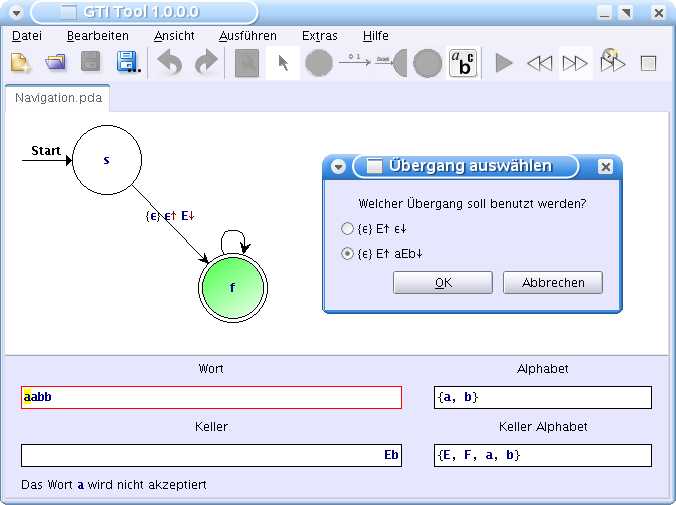
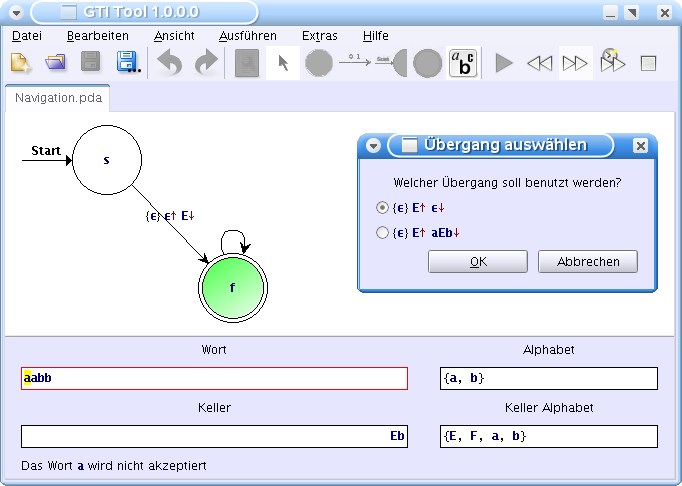
- Use the pretty string for the labels in the dialogs. - Bugfix: Correct the enter word toggle button state if there are validation errors. - Update the images. - Reimplement the default name implementation.
git-svn-id: https://vcs.informatik.uni-siegen.de/svn/gtitool/trunk@1205 d1fb0f2a-2248-4f96-a540-7c12a6a72a62

diff --git a/de.unisiegen.gtitool.core/source-impl/de/unisiegen/gtitool/core/entities/DefaultState.java b/de.unisiegen.gtitool.core/source-impl/de/unisiegen/gtitool/core/entities/DefaultState.java
@@ -64,12 +64,6 @@ public final class DefaultState implements State
 
 
   /**
-   * Flag that indicates if the default name can be set.
-   */
-  private boolean canSetDefaultName;
-
-
-  /**
    * This {@link DefaultState} is a final {@link DefaultState}.
    */
   private boolean finalState = false;
@@ -175,29 +169,6 @@ public final class DefaultState implements State
    * @param alphabet The {@link Alphabet} of this {@link DefaultState}.
    * @param pushDownAlphabet The push down {@link Alphabet} of this
    *          {@link DefaultState}.
-   * @param startState This {@link DefaultState} is a start {@link DefaultState}
-   *          .
-   * @param finalState This {@link DefaultState} is a final {@link DefaultState}
-   *          .
-   * @throws StateException If something with the {@link DefaultState} is not
-   *           correct.
-   */
-  public DefaultState ( Alphabet alphabet, Alphabet pushDownAlphabet,
-      boolean startState, boolean finalState ) throws StateException
-  {
-    this ( alphabet, pushDownAlphabet, "DEFAULTNAME", startState, finalState ); //$NON-NLS-1$
-    this.canSetDefaultName = true;
-
-    resetModify ();
-  }
-
-
-  /**
-   * Allocates a new {@link DefaultState}.
-   * 
-   * @param alphabet The {@link Alphabet} of this {@link DefaultState}.
-   * @param pushDownAlphabet The push down {@link Alphabet} of this
-   *          {@link DefaultState}.
    * @param name The name of this {@link DefaultState}.
    * @param startState This {@link DefaultState} is a start {@link DefaultState}
    *          .
@@ -244,9 +215,6 @@ public final class DefaultState implements State
     // TransitionEnd
     this.transitionEndList = new ArrayList < Transition > ();
     this.transitionEndIdList = new ArrayList < Integer > ();
-
-    // CanSetDefaultName
-    this.canSetDefaultName = false;
 
     // Attribute
     boolean foundId = false;
@@ -373,9 +341,6 @@ public final class DefaultState implements State
     // TransitionEnd
     this.transitionEndList = new ArrayList < Transition > ();
     this.transitionEndIdList = new ArrayList < Integer > ();
-
-    // DefaultName
-    this.canSetDefaultName = false;
 
     resetModify ();
   }
@@ -993,33 +958,6 @@ public final class DefaultState implements State
       throw new IllegalArgumentException ( "alphabet is already set" ); //$NON-NLS-1$
     }
     this.alphabet = alphabet;
-  }
-
-
-  /**
-   * {@inheritDoc}
-   * 
-   * @see State#setDefaultName()
-   */
-  public final void setDefaultName ()
-  {
-    if ( this.canSetDefaultName )
-    {
-      if ( this.id == ID_NOT_DEFINED )
-      {
-        throw new IllegalArgumentException ( "id is not defined" ); //$NON-NLS-1$ 
-      }
-      try
-      {
-        setName ( "z" + this.id ); //$NON-NLS-1$
-      }
-      catch ( StateException exc )
-      {
-        exc.printStackTrace ();
-        System.exit ( 1 );
-        return;
-      }
-    }
   }
 
 

diff --git a/de.unisiegen.gtitool.ui/source/de/unisiegen/gtitool/ui/logic/TransitionDialog.java b/de.unisiegen.gtitool.ui/source/de/unisiegen/gtitool/ui/logic/TransitionDialog.java
@@ -25,6 +25,9 @@ import de.unisiegen.gtitool.core.entities.Word;
 import de.unisiegen.gtitool.core.exceptions.state.StateException;
 import de.unisiegen.gtitool.core.exceptions.transition.TransitionException;
 import de.unisiegen.gtitool.core.machines.Machine.MachineType;
+import de.unisiegen.gtitool.core.parser.style.PrettyString;
+import de.unisiegen.gtitool.core.parser.style.PrettyToken;
+import de.unisiegen.gtitool.core.parser.style.Style;
 import de.unisiegen.gtitool.core.parser.style.renderer.PrettyStringListCellRenderer;
 import de.unisiegen.gtitool.ui.i18n.Messages;
 import de.unisiegen.gtitool.ui.jgraph.DefaultStateView;
@@ -513,7 +516,7 @@ public final class TransitionDialog implements
       {
         State newState;
         newState = new DefaultState ( this.alphabet, this.pushDownAlphabet,
-            false, false );
+            this.machinePanel.getMachine ().getNextStateName (), false, false );
         target = this.model.createStateView ( this.xPosition / this.zoomFactor,
             this.yPosition / this.zoomFactor, newState, false );
         this.transition.setStateEnd ( target.getState () );
@@ -628,18 +631,19 @@ public final class TransitionDialog implements
     this.alphabet = initAlphabet;
     this.pushDownAlphabet = initPushDownAlphabet;
 
-    // PushDownWordRead
     setPushDownWordRead ( initPushDownWordRead );
-    // PushDownWordWrite
     setPushDownWordWrite ( initPushDownWordWrite );
+
     this.stateBegin = initStateBegin;
     this.stateEnd = initStateEnd;
     this.gui = new TransitionDialogForm ( this, initParent );
-    String targetName = this.stateEnd == null ? Messages
-        .getString ( "TransitionDialog.NewState" ) : this.stateEnd //$NON-NLS-1$
-        .getName ();
-    this.gui.jGTILabelNonterminalSymbol.setText ( Messages.getString (
-        "TransitionDialog.Header", this.stateBegin, targetName ) ); //$NON-NLS-1$
+
+    String targetName = this.stateEnd == null ? initMachinePanel.getMachine ()
+        .getNextStateName () : this.stateEnd.getName ();
+    this.gui.jGTILabelNonterminalSymbol.setText ( Messages.getPrettyString (
+        "TransitionDialog.Header", this.stateBegin.toPrettyString (), //$NON-NLS-1$
+        new PrettyString ( new PrettyToken ( targetName, Style.STATE ) ) )
+        .toHTMLString () );
 
     this.gui.jGTIListChangeOverSet
         .setTransferHandler ( new JGTIListTransferHandler (

diff --git a/de.unisiegen.gtitool.ui/source/de/unisiegen/gtitool/ui/logic/MachinePanel.java b/de.unisiegen.gtitool.ui/source/de/unisiegen/gtitool/ui/logic/MachinePanel.java
@@ -2719,7 +2719,8 @@ public final class MachinePanel implements LogicClass < MachinePanelForm >,
         {
           State newState = new DefaultState ( MachinePanel.this.machine
               .getAlphabet (),
-              MachinePanel.this.machine.getPushDownAlphabet (), false, false );
+              MachinePanel.this.machine.getPushDownAlphabet (),
+              MachinePanel.this.machine.getNextStateName (), false, false );
 
           MachinePanel.this.model.createStateView ( event.getPoint ().x
               / MachinePanel.this.zoomFactor, event.getPoint ().y
@@ -3106,7 +3107,8 @@ public final class MachinePanel implements LogicClass < MachinePanelForm >,
         {
           State newState = new DefaultState ( MachinePanel.this.machine
               .getAlphabet (),
-              MachinePanel.this.machine.getPushDownAlphabet (), true, false );
+              MachinePanel.this.machine.getPushDownAlphabet (),
+              MachinePanel.this.machine.getNextStateName (), true, false );
           MachinePanel.this.model.createStateView ( event.getPoint ().x
               / MachinePanel.this.zoomFactor, event.getPoint ().y
               / MachinePanel.this.zoomFactor, newState, true );
@@ -3207,7 +3209,8 @@ public final class MachinePanel implements LogicClass < MachinePanelForm >,
         {
           State newState = new DefaultState ( MachinePanel.this.machine
               .getAlphabet (),
-              MachinePanel.this.machine.getPushDownAlphabet (), false, true );
+              MachinePanel.this.machine.getPushDownAlphabet (),
+              MachinePanel.this.machine.getNextStateName (), false, true );
           MachinePanel.this.model.createStateView ( event.getPoint ().x
               / MachinePanel.this.zoomFactor, event.getPoint ().y
               / MachinePanel.this.zoomFactor, newState, true );

diff --git a/de.unisiegen.gtitool.core/source-impl/de/unisiegen/gtitool/core/machines/AbstractMachine.java b/de.unisiegen.gtitool.core/source-impl/de/unisiegen/gtitool/core/machines/AbstractMachine.java
@@ -457,7 +457,7 @@ public abstract class AbstractMachine implements Machine
         this.currentStateId = state.getId ();
       }
     }
-    state.setDefaultName ();
+
     this.stateList.add ( state );
     link ( state );
     fireTableDataChanged ();
@@ -1212,6 +1212,29 @@ public abstract class AbstractMachine implements Machine
   /**
    * {@inheritDoc}
    * 
+   * @see Machine#getNextStateName()
+   */
+  public final String getNextStateName ()
+  {
+    int result = -1;
+
+    for ( State current : this.stateList )
+    {
+      if ( current.getId () > result )
+      {
+        result = current.getId ();
+      }
+    }
+
+    result++ ;
+
+    return "z" + result; //$NON-NLS-1$
+  }
+
+
+  /**
+   * {@inheritDoc}
+   * 
    * @see Machine#getNotReachableStates()
    */
   public final ArrayList < State > getNotReachableStates ()
@@ -1824,8 +1847,8 @@ public abstract class AbstractMachine implements Machine
     }
 
     // special case for the pda navigation
-    if ( this.getMachineType ().equals ( MachineType.PDA )
-        && getPossibleTransitions ().size () > 0 )
+    if ( getMachineType ().equals ( MachineType.PDA )
+        && ( getPossibleTransitions ().size () > 0 ) )
     {
       return true;
     }

diff --git a/de.unisiegen.gtitool.core/test/de/unisiegen/gtitool/core/machines/nfa/NFATest.java b/de.unisiegen.gtitool.core/test/de/unisiegen/gtitool/core/machines/nfa/NFATest.java
@@ -114,10 +114,10 @@ public class NFATest extends MachineTest
     // States
     try
     {
-      z0 = new DefaultState ( alphabet, pushDownAlphabet, true, false );
-      z1 = new DefaultState ( alphabet, pushDownAlphabet, false, false );
-      z2 = new DefaultState ( alphabet, pushDownAlphabet, false, false );
-      z3 = new DefaultState ( alphabet, pushDownAlphabet, false, true );
+      z0 = new DefaultState ( alphabet, pushDownAlphabet, "z0", true, false );
+      z1 = new DefaultState ( alphabet, pushDownAlphabet, "z1", false, false );
+      z2 = new DefaultState ( alphabet, pushDownAlphabet, "z2", false, false );
+      z3 = new DefaultState ( alphabet, pushDownAlphabet, "z3", false, true );
     }
     catch ( StateException exc )
     {

diff --git a/de.unisiegen.gtitool.ui/source/de/unisiegen/gtitool/ui/logic/StateConfigDialog.java b/de.unisiegen.gtitool.ui/source/de/unisiegen/gtitool/ui/logic/StateConfigDialog.java
@@ -110,8 +110,9 @@ public final class StateConfigDialog implements
     this.gui.jGTICheckBoxFinalState.setSelected ( this.state.isFinalState () );
     this.gui.jGTICheckBoxStartState.setSelected ( this.state.isStartState () );
     this.gui.styledStateParserPanel.setText ( state );
-    this.gui.jGTILabelRename.setText ( Messages.getString (
-        "NewStateNameDialog.RenameText", state ) ); //$NON-NLS-1$
+    this.gui.jGTILabelRename.setText ( Messages.getPrettyString (
+        "NewStateNameDialog.RenameText", state.toPrettyString () ) //$NON-NLS-1$
+        .toHTMLString () );
 
     /*
      * State changed listener

diff --git a/de.unisiegen.gtitool.core/test/de/unisiegen/gtitool/core/machines/enfa/ENFATest.java b/de.unisiegen.gtitool.core/test/de/unisiegen/gtitool/core/machines/enfa/ENFATest.java
@@ -106,9 +106,9 @@ public class ENFATest extends MachineTest
     // States
     try
     {
-      z0 = new DefaultState ( alphabet, pushDownAlphabet, true, false );
-      z1 = new DefaultState ( alphabet, pushDownAlphabet, false, false );
-      z2 = new DefaultState ( alphabet, pushDownAlphabet, false, true );
+      z0 = new DefaultState ( alphabet, pushDownAlphabet, "z0", true, false );
+      z1 = new DefaultState ( alphabet, pushDownAlphabet, "z1", false, false );
+      z2 = new DefaultState ( alphabet, pushDownAlphabet, "z2", false, true );
     }
     catch ( StateException exc )
     {

diff --git a/de.unisiegen.gtitool.core/test/de/unisiegen/gtitool/core/machines/dfa/DFATest.java b/de.unisiegen.gtitool.core/test/de/unisiegen/gtitool/core/machines/dfa/DFATest.java
@@ -110,9 +110,9 @@ public class DFATest extends MachineTest
     // States
     try
     {
-      z0 = new DefaultState ( alphabet, pushDownAlphabet, true, false );
-      z1 = new DefaultState ( alphabet, pushDownAlphabet, false, false );
-      z2 = new DefaultState ( alphabet, pushDownAlphabet, false, true );
+      z0 = new DefaultState ( alphabet, pushDownAlphabet, "z0", true, false );
+      z1 = new DefaultState ( alphabet, pushDownAlphabet, "z1", false, false );
+      z2 = new DefaultState ( alphabet, pushDownAlphabet, "z2", false, true );
     }
     catch ( StateException exc )
     {

diff --git a/de.unisiegen.gtitool.core/test/de/unisiegen/gtitool/core/machines/pda/PDATest.java b/de.unisiegen.gtitool.core/test/de/unisiegen/gtitool/core/machines/pda/PDATest.java
@@ -110,9 +110,9 @@ public class PDATest extends MachineTest
     // States
     try
     {
-      z0 = new DefaultState ( alphabet, pushDownAlphabet, true, false );
-      z1 = new DefaultState ( alphabet, pushDownAlphabet, false, false );
-      z2 = new DefaultState ( alphabet, pushDownAlphabet, false, true );
+      z0 = new DefaultState ( alphabet, pushDownAlphabet, "z0", true, false );
+      z1 = new DefaultState ( alphabet, pushDownAlphabet, "z1", false, false );
+      z2 = new DefaultState ( alphabet, pushDownAlphabet, "z2", false, true );
     }
     catch ( StateException exc )
     {

diff --git a/de.unisiegen.gtitool.ui/source/de/unisiegen/gtitool/ui/convert/AbstractConvertGrammar.java b/de.unisiegen.gtitool.ui/source/de/unisiegen/gtitool/ui/convert/AbstractConvertGrammar.java
@@ -216,8 +216,8 @@ public abstract class AbstractConvertGrammar implements Converter
       }
       else
       {
-        state = new DefaultState ( this.alphabet, this.pushDownAlphabet, false,
-            false );
+        state = new DefaultState ( this.alphabet, this.pushDownAlphabet,
+            this.model.getMachine ().getNextStateName (), false, false );
       }
       DefaultStateView stateView = this.model.createStateView ( this.position,
           this.position, state, false );

diff --git a/de.unisiegen.gtitool.ui/source/de/unisiegen/gtitool/ui/logic/ChooseTransitionDialog.java b/de.unisiegen.gtitool.ui/source/de/unisiegen/gtitool/ui/logic/ChooseTransitionDialog.java
@@ -145,7 +145,8 @@ public final class ChooseTransitionDialog implements
     {
       JGTIRadioButton jGTIRadioButton = new JGTIRadioButton ();
       this.radioButtonList.add ( jGTIRadioButton );
-      jGTIRadioButton.setText ( this.transitionList.get ( i ).toString () );
+      jGTIRadioButton.setText ( this.transitionList.get ( i ).toPrettyString ()
+          .toHTMLString () );
 
       buttonGroup.add ( jGTIRadioButton );
 

diff --git a/de.unisiegen.gtitool.core/source/de/unisiegen/gtitool/core/machines/Machine.java b/de.unisiegen.gtitool.core/source/de/unisiegen/gtitool/core/machines/Machine.java
@@ -267,6 +267,14 @@ public interface Machine extends InputEntity, Serializable, TableModel,
 
 
   /**
+   * Returns the next {@link State} name.
+   * 
+   * @return The next {@link State} name.
+   */
+  public String getNextStateName ();
+
+
+  /**
    * Returns the not reachable {@link State} list.
    * 
    * @return The not reachable {@link State} list.
